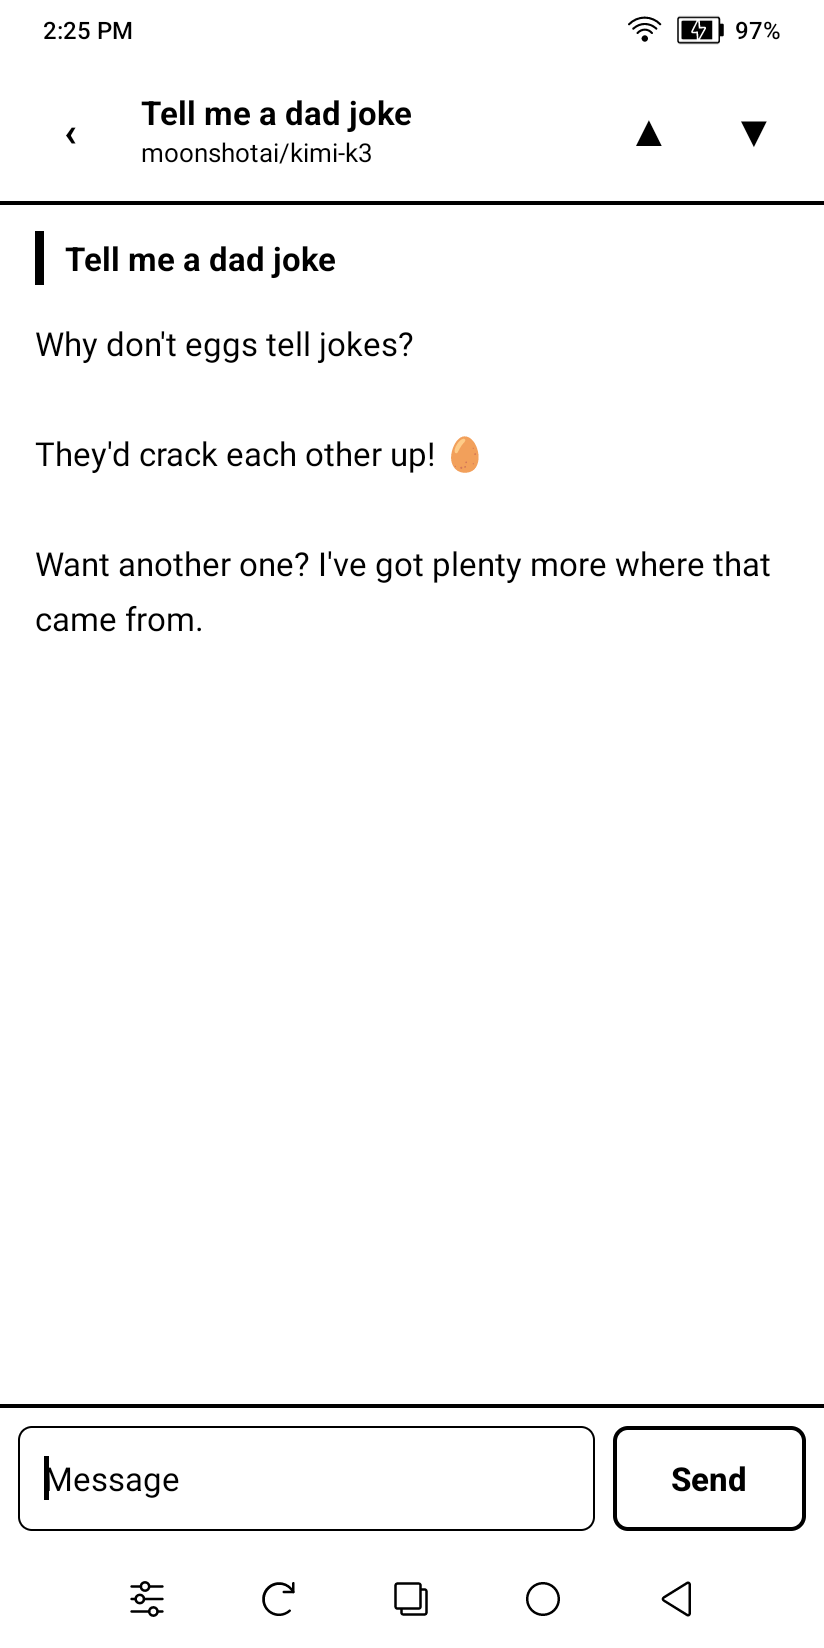
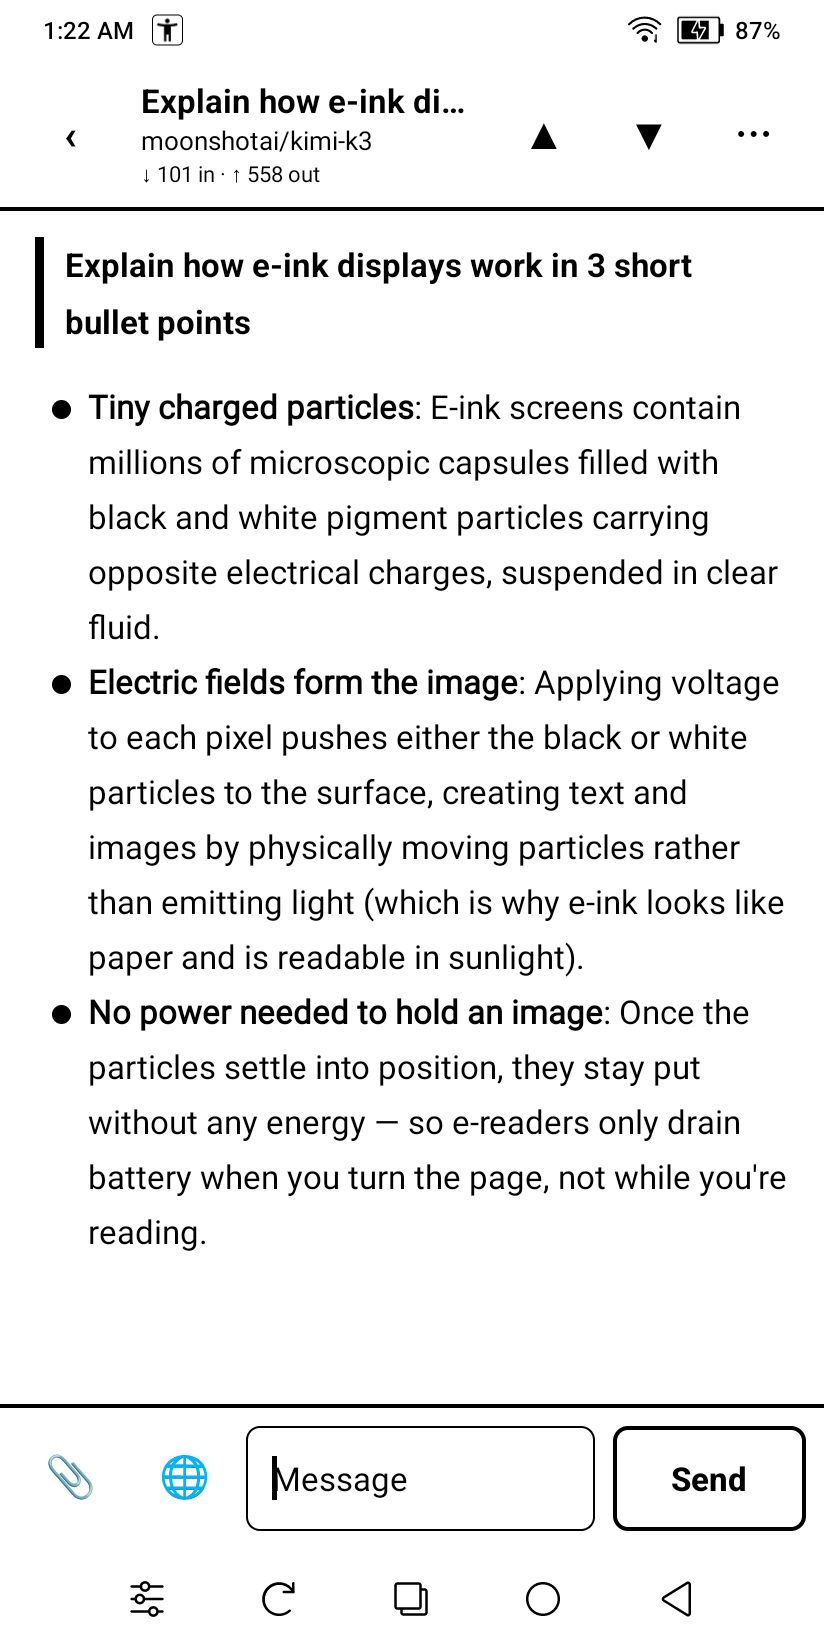
Refresh README screenshots and add the provider picker
Home, chat, and settings retaken on v0.2.0 so the search bar, token
usage, header actions, and attach/web-search buttons are visible. New
providers.png shows the five-provider default picker (OpenRouter,
OpenAI, Anthropic, Gemini, local Ollama / llama.cpp).

diff --git a/README.md b/README.md
@@ -35,6 +35,8 @@ It's a personal, single-user app.
   &nbsp;
   <img src="docs/screenshots/chat.png" width="220" alt="Chat — streamed reply rendered as Markdown" />
   &nbsp;
+  <img src="docs/screenshots/providers.png" width="220" alt="Provider picker — OpenRouter, OpenAI, Anthropic, Gemini, or a local Ollama / llama.cpp server" />
+  &nbsp;
   <img src="docs/screenshots/settings.png" width="220" alt="Settings — per-provider configuration" />
   &nbsp;
   <img src="docs/screenshots/about.png" width="220" alt="About screen" />
